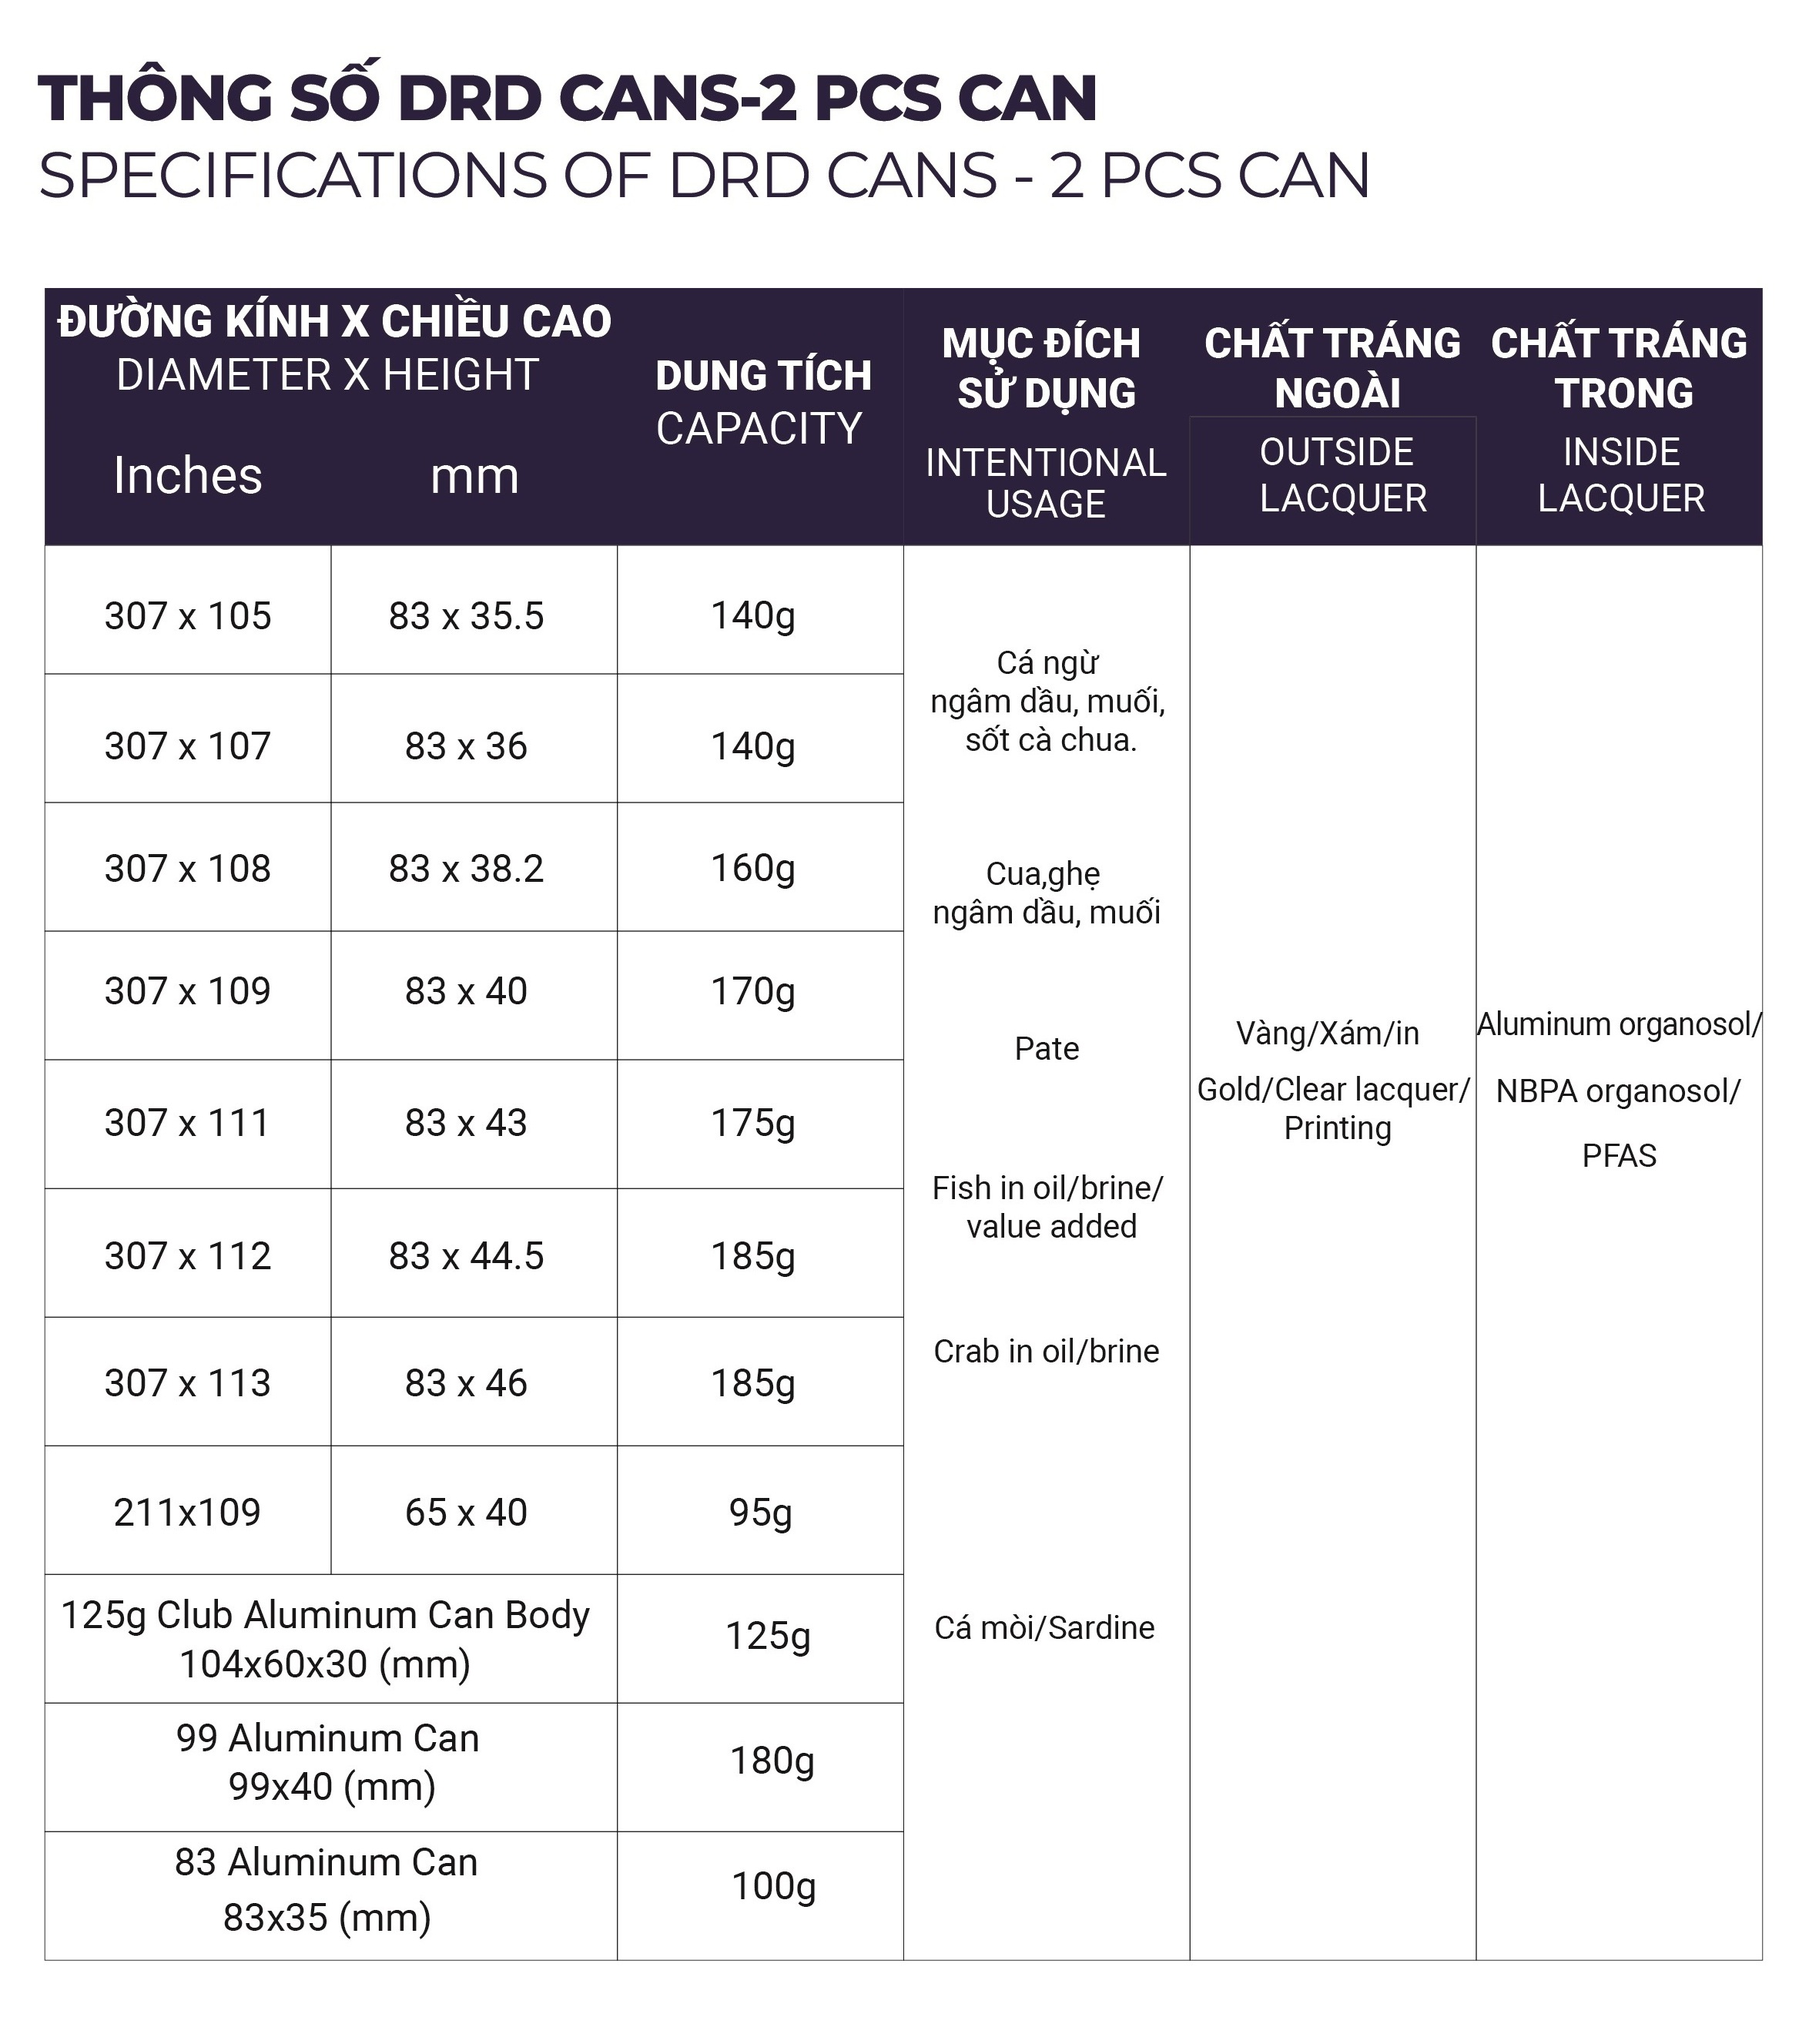
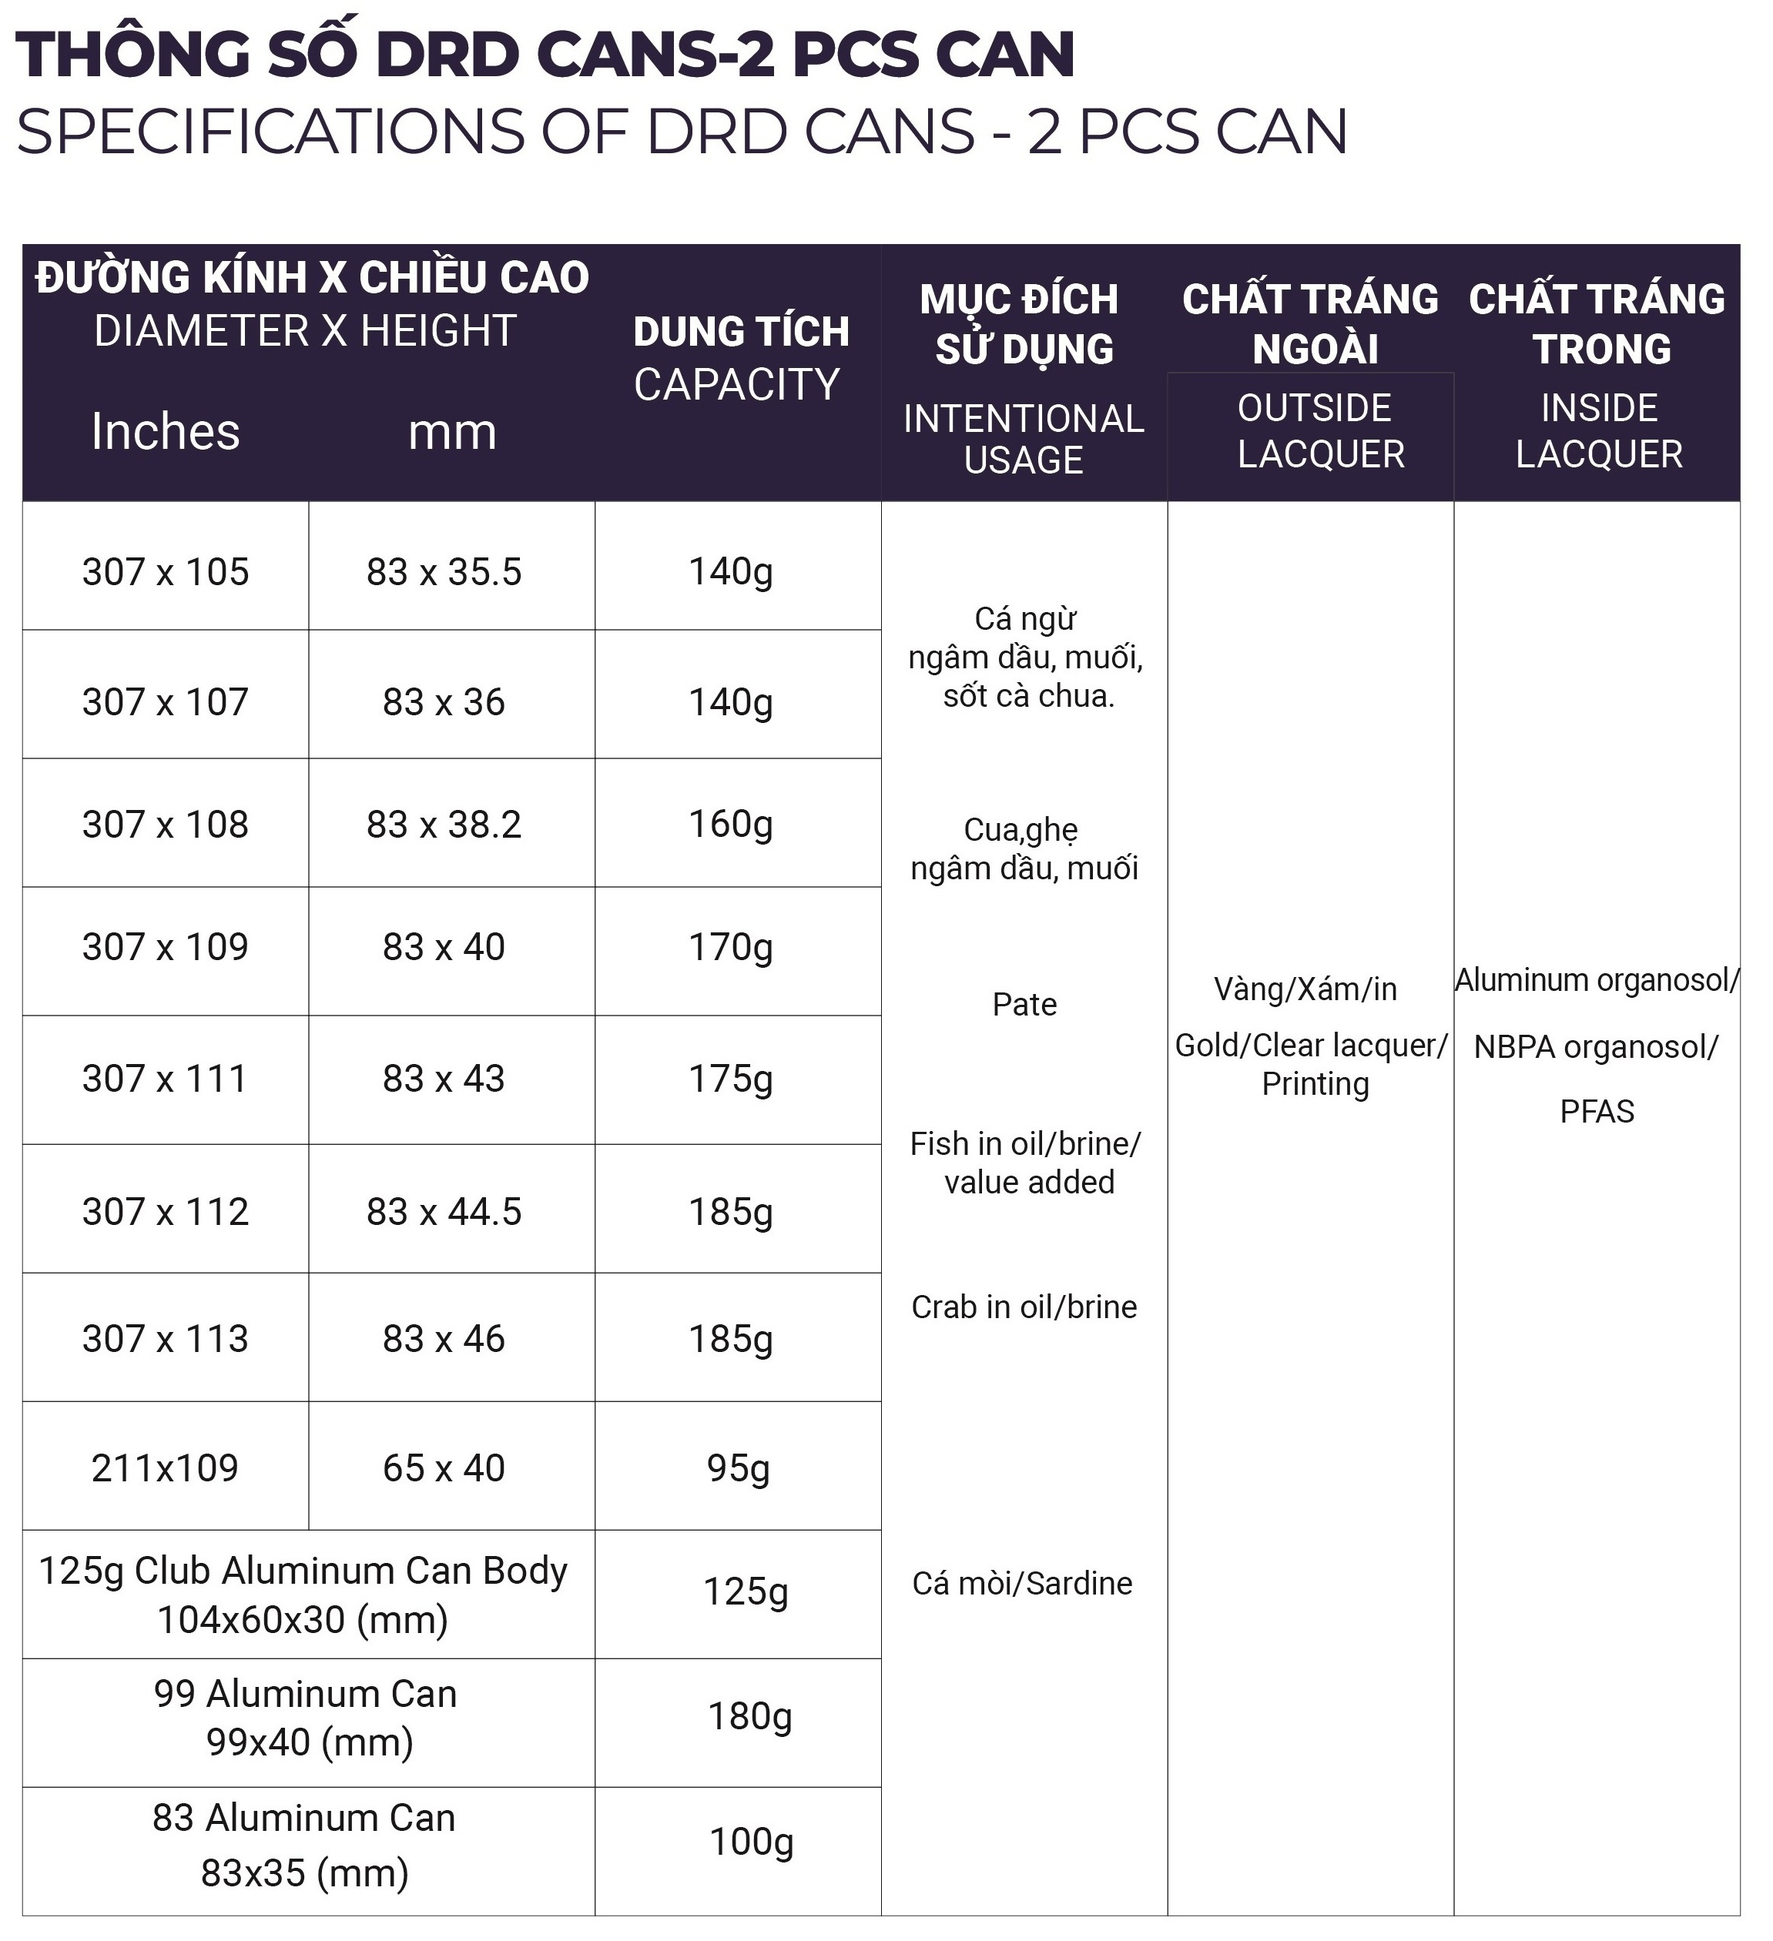
fix(styles): adjust font sizes and layout for product section components

diff --git a/src/pages/products/components/ProductSection/ProductSectionStacked.module.css b/src/pages/products/components/ProductSection/ProductSectionStacked.module.css
@@ -1,5 +1,5 @@
 .section {
-  @apply flex flex-col w-full justify-center gap-4 py-[5px];
+  @apply flex flex-col w-full justify-center;
 }
 
 .header {
@@ -7,7 +7,7 @@
 }
 
 .title {
-  @apply text-xl md:text-3xl font-bold text-[#0f2f5f] mb-1;
+  @apply text-xl md:text-2xl font-bold text-[#0f2f5f] mb-1;
   text-transform: uppercase;
 }
 
@@ -24,7 +24,7 @@
 }
 
 .productMainInfo {
-  @apply flex flex-col gap-4;
+  @apply flex flex-col;
   min-width: 0;
   min-height: 0;
 }
@@ -34,7 +34,7 @@
 }
 
 .description {
-  @apply text-sm md:text-base text-gray-600 leading-relaxed mb-2 text-justify;
+  @apply text-sm md:text-sm text-gray-600 leading-relaxed mb-2 text-justify;
 }
 
 .features {
@@ -54,16 +54,17 @@
 }
 
 .specSection {
-  @apply w-full flex items-center justify-center bg-gray-50/10 rounded-2xl p-1;
+   @apply flex items-center justify-center;
 }
 
 .specWrap {
-  @apply w-full relative flex items-center justify-center;
+  @apply relative flex items-center justify-start ;
 }
 
 .specImage {
-  @apply h-auto object-contain drop-shadow-md rounded-xl mx-auto;
-  max-width: 100%;
+  @apply h-auto object-contain drop-shadow-sm mx-0 rounded-lg;
+  width: 100%;
+  max-width: none;
   display: block;
 }
 
@@ -81,7 +82,7 @@
 
 @media (min-width: 1024px) {
   .imageGallery {
-    max-height: 60vh;
+    max-height: 70vh;
   }
 }
 
@@ -125,11 +126,11 @@
   }
 
   .specWrap {
-    max-height: 40vh;
+    max-height: 60vh;
   }
 
   .specImage {
-    max-height: 40vh;
+    max-height: 60vh;
   }
 
   .imageGallery {

diff --git a/src/pages/products/components/ProductSection/ProductSectionClassic.module.css b/src/pages/products/components/ProductSection/ProductSectionClassic.module.css
@@ -9,7 +9,7 @@
 }
 
 .title {
-  @apply text-xl md:text-3xl font-bold text-[#0f2f5f] mb-1;
+  @apply text-xl md:text-2xl font-bold text-[#0f2f5f] mb-1;
   text-transform: uppercase;
 }
 
